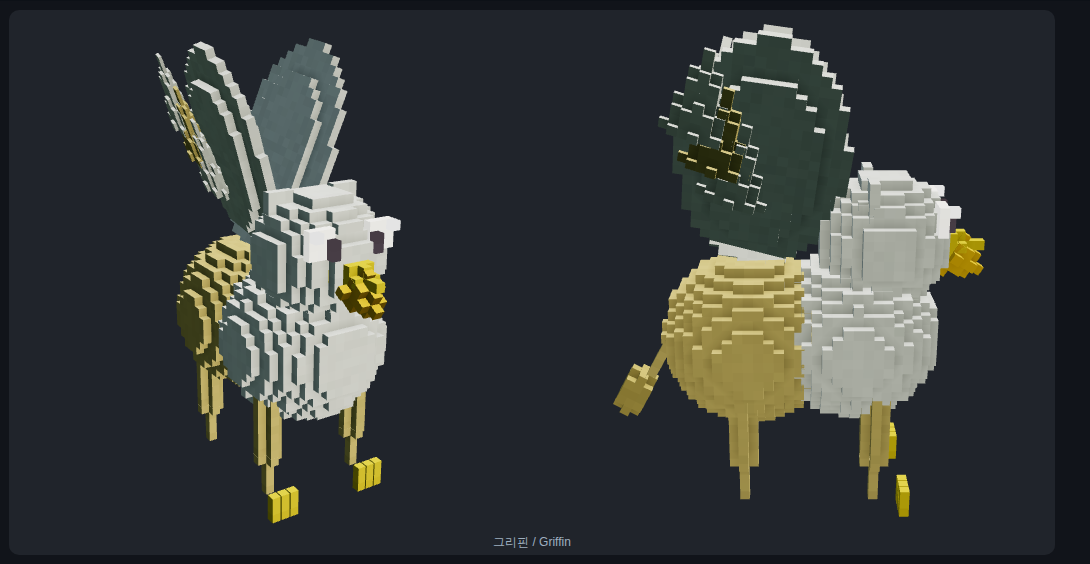
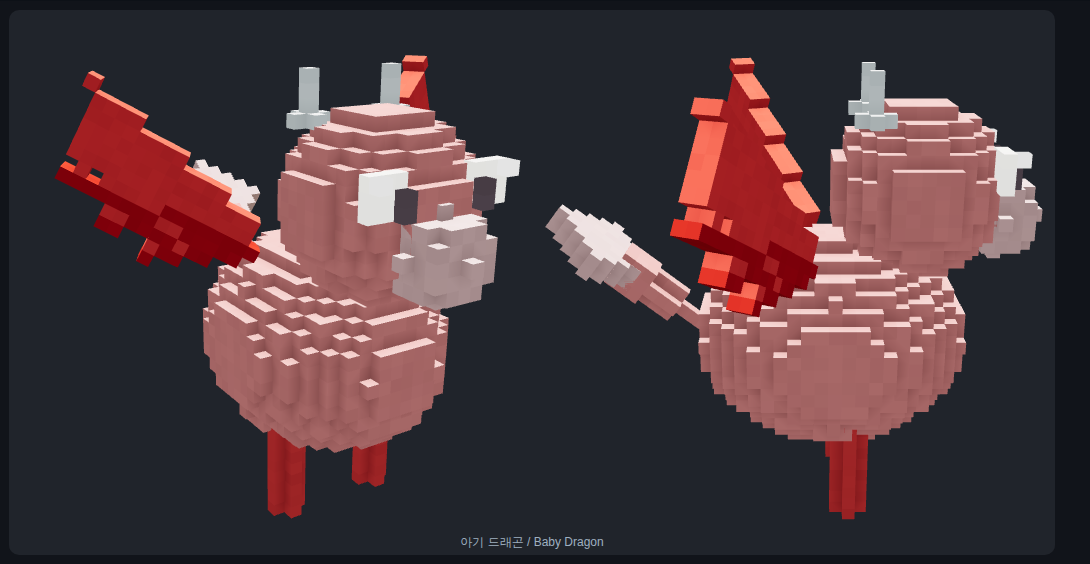
아기 드래곤에 막날개·스페이드 꼬리 (pet-species-recognizable ㉨)
블라인드 채점 교집합 지적: 붉은 부속이 3/4각에서 원반·옆에서 원뿔이라 정체
불명. 종전 날개가 납작 타원 한 덩어리였다. 처방대로 막날개로 바꿨다 —
막을 폐곡선으로 깎고 뒷전에 파임 3, 뿌리에서 손가락 끝 3개로 어두운 골조를
그었다(타원으로는 절대 안 나오는 박쥐·용 날개 문법). 꼬리 끝엔 마름모 판을
세워 스페이드로 맺었다.

diff --git a/web/js/scene3d.js b/web/js/scene3d.js
@@ -10487,16 +10487,66 @@ const Scene3D = {
                     eyes(0.14, 0.11);
                 });
                 jt(neck, 'x', 0.4, 0.5, { f: 1, gain: 1.6 });
+                // 🚨 교집합 지적 ㉨: *"붉은 부속이 3/4각에서 원반·옆에서 원뿔이라 정체 불명."*
+                //    종전 날개는 `sp(0.1, …, 0.2, 1, 0.7)` — **납작한 타원 한 덩어리**라 각도에 따라
+                //    원반/원뿔로 뭉갰다. 처방: **막날개(손가락 골조 3 + 뒷전 파임 3)**. 박쥐·용 날개의
+                //    문법은 '면(막) + 그 면을 가르는 손가락뼈'다 — 타원으로는 절대 안 나온다.
+                //    막을 폐곡선으로 깎고(뒷전에 파임 3), 뿌리에서 각 손가락 끝으로 **어두운 골조**를 긋는다.
+                const WING_M = M(new THREE.Color(c).offsetHSL(0, 0.05, -0.12));   // 막(반투명 아님 — voxel 은 두께가 있다)
+                const WING_B = M(new THREE.Color(c).offsetHSL(0, 0.10, -0.30));   // 손가락뼈(막보다 진하게)
+                const FT = [[0.205, -0.02], [0.150, -0.045], [0.092, -0.060]];    // 손가락 끝 3개(span, y)
+                const wingVox = (s) => {
+                    // 막 폐곡선 — 앞전은 뿌리→바깥위, 뒷전은 손가락 끝 3개 사이가 위로 파인다(scallop).
+                    const P = [[0, 0.03], [0.225, 0.085],
+                        FT[0], [0.178, 0.005], FT[1], [0.121, -0.010], FT[2], [0.046, 0.005], [0, -0.03]]
+                        .map(([x, y]) => [s * x, y]);
+                    const inside = (px, py) => {
+                        let hit = false;
+                        for (let i = 0, j = P.length - 1; i < P.length; j = i++) {
+                            const xi = P[i][0], yi = P[i][1], xj = P[j][0], yj = P[j][1];
+                            if (((yi > py) !== (yj > py)) && (px < (xj - xi) * (py - yi) / (yj - yi) + xi)) hit = !hit;
+                        }
+                        return hit;
+                    };
+                    const out = [], mx = Math.ceil(0.24 / PVS), myU = Math.ceil(0.09 / PVS), myD = Math.ceil(0.07 / PVS);
+                    for (let y = -myD; y <= myU; y++) for (let x = -mx; x <= mx; x++)
+                        if (inside(x * PVS, y * PVS)) for (let z = 0; z < 2; z++) out.push({ x, y, z, c: WING_M.color.getHex() });
+                    // 손가락뼈 — 뿌리(0,0)에서 각 끝점까지 Bresenham 로 칸을 이어 어두운 색으로 덮는다.
+                    for (const [fx, fy] of FT) {
+                        const ex = Math.round(s * fx / PVS), ey = Math.round(fy / PVS);
+                        const n = Math.max(Math.abs(ex), Math.abs(ey));
+                        for (let k = 0; k <= n; k++) {
+                            const x = Math.round(ex * k / n), y = Math.round(ey * k / n);
+                            for (let z = 0; z < 2; z++) out.push({ x, y, z, c: WING_B.color.getHex() });
+                        }
+                    }
+                    return out;
+                };
                 g.userData.wings = [];
                 for (const s of [-1, 1]) {
-                    const sh = pv(s * 0.08, 0.28, -0.05);
-                    into(sh, () => sp(0.1, s * 0.07, -0.04, 0, dark, 0.2, 1, 0.7));
-                    sh.rotation.z = s * 0.6;
+                    const sh = pv(s * 0.07, 0.30, -0.04);
+                    into(sh, () => {
+                        const w = Voxel.build(wingVox(s), { size: PVS, jitter: 0.05, ao: 0.7, center: false,
+                            material: new THREE.MeshLambertMaterial({ vertexColors: true, flatShading: true }), color: 0xffffff });
+                        sh.add(w);
+                    });
+                    sh.rotation.z = s * 0.5; sh.rotation.y = s * 0.5;   // 위로 벌리고 뒤로 젖혀 등 위 V
                     sh.userData.s = s;
                     g.userData.wings.push(sh);
                 }
+                // 스페이드 끝 꼬리 — 지적 ㉨ 의 둘째. 가는 줄 끝에 **마름모 판**을 세워 용 꼬리로 맺는다.
                 const tail = pv(0, 0.19, -0.12);
-                into(tail, () => { const t = cn(0.035, 0.16, 0, 0.08, 0, mat); t.rotation.x = Math.PI; });
+                into(tail, () => {
+                    const t = cn(0.030, 0.15, 0, 0.075, 0, mat); t.rotation.x = Math.PI;
+                    // 스페이드(마름모) — |x|+|y| ≤ r 판을 세워 끝에 얹는다. z 로 얇게.
+                    const spadeV = [];
+                    const sr = 4;
+                    for (let x = -sr; x <= sr; x++) for (let y = -sr; y <= sr; y++)
+                        if (Math.abs(x) + Math.abs(y) <= sr) for (let z = 0; z < 2; z++) spadeV.push({ x, y: -y, z });
+                    const sp2 = Voxel.build(spadeV, { size: PVS, jitter: 0.05, ao: 0.8, center: true,
+                        material: vmat(light), color: light.color.getHex() });
+                    sp2.position.set(0, 0.175, 0); CUR.add(sp2);
+                });
                 tail.rotation.x = -0.9;
                 g.userData.tail = tail;
                 let i = 0;
